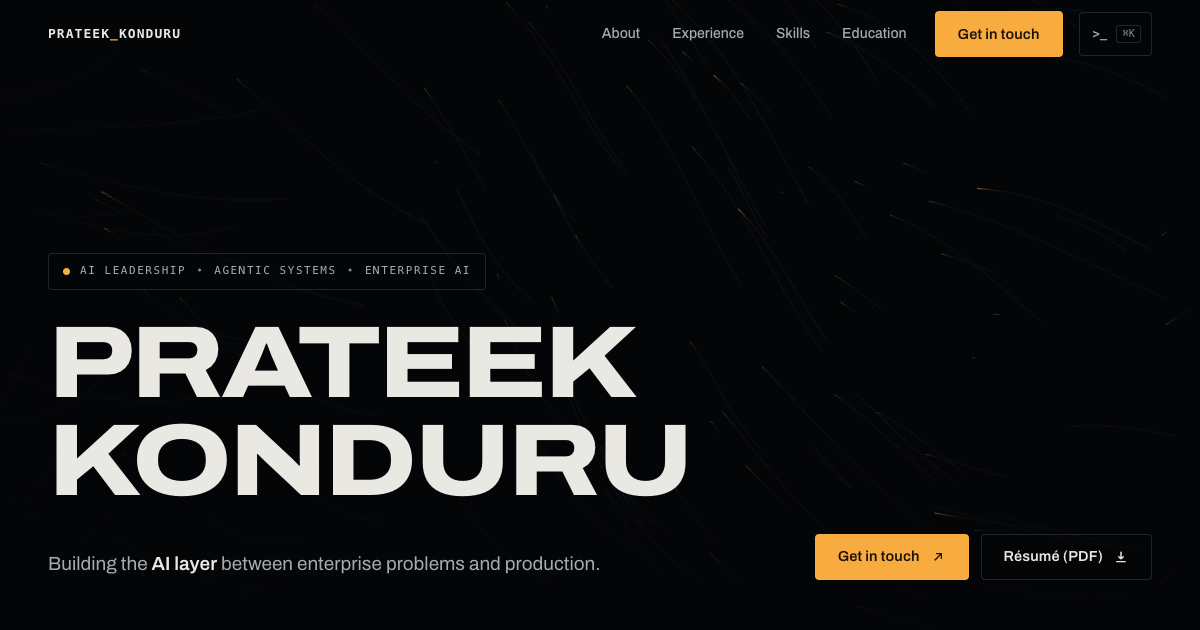
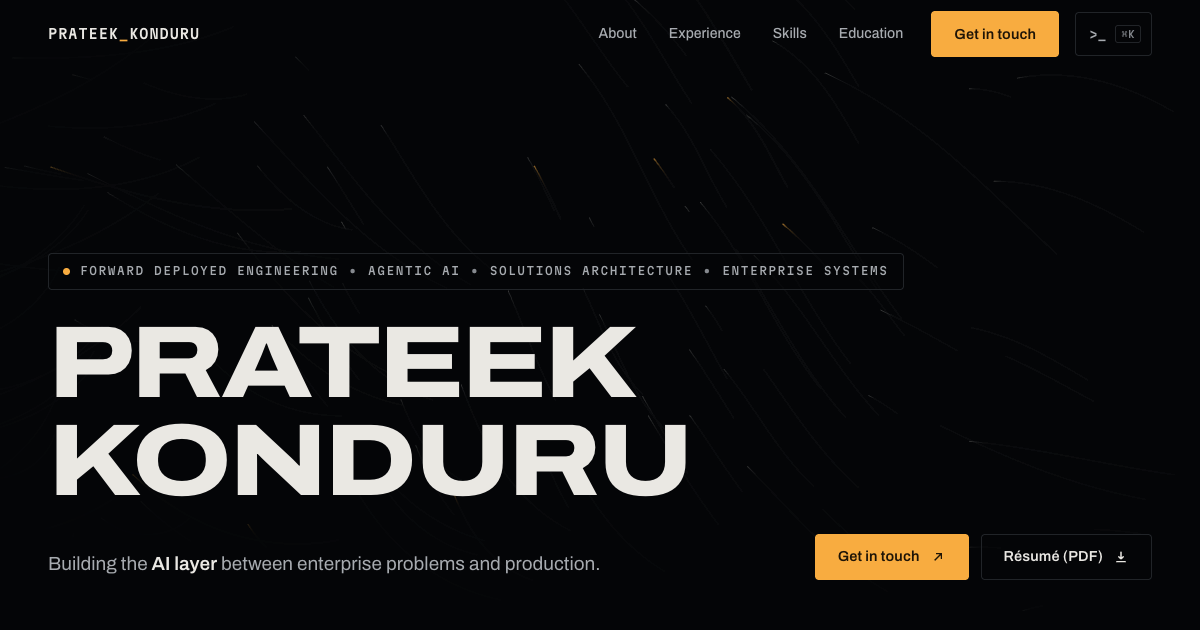
Hero pill: name the roles recruiters search for
"AI Leadership" named a category, not a job. The pill now reads
Forward Deployed Engineering / Agentic AI / Solutions Architecture /
Enterprise Systems, each backed by the résumé. It stays on one line on
desktop and wraps to three rows on phones. Social card regenerated.

diff --git a/index.html b/index.html
@@ -901,7 +901,7 @@
 <section class="hero" id="top" aria-label="Introduction">
     <canvas id="field" aria-hidden="true"></canvas>
     <div class="wrap">
-        <p class="status rv" style="--d:80ms"><span class="pulse" aria-hidden="true"></span><span>AI Leadership</span><span class="sep" aria-hidden="true">&bull;</span><span>Agentic Systems</span><span class="sep" aria-hidden="true">&bull;</span><span>Enterprise AI</span></p>
+        <p class="status rv" style="--d:80ms"><span class="pulse" aria-hidden="true"></span><span>Forward Deployed Engineering</span><span class="sep" aria-hidden="true">&bull;</span><span>Agentic AI</span><span class="sep" aria-hidden="true">&bull;</span><span>Solutions Architecture</span><span class="sep" aria-hidden="true">&bull;</span><span>Enterprise Systems</span></p>
         <h1>
             <span class="mask"><span style="--d:120ms">Prateek</span></span>
             <span class="mask"><span style="--d:220ms">Konduru<span class="caret" aria-hidden="true"></span></span></span>

diff --git a/DESIGN.md b/DESIGN.md
@@ -73,7 +73,7 @@ no fake product screenshots.
 ## Hard rules
 
 - Zero em/en-dashes in visible text (hyphens only)
-- Middle-dots only as the hero pill's two domain separators; never in prose or metadata lines
-- One decorative-adjacent dot on the whole page: the hero status pulse (fronting the domain strip "AI Leadership / Agentic Systems / Enterprise AI"; all three segments always show, wrapping into tidy rows inside the pill on narrow screens)
+- Middle-dots only as the hero pill's three domain separators; never in prose or metadata lines
+- One decorative-adjacent dot on the whole page: the hero status pulse (fronting the domain strip "Forward Deployed Engineering / Agentic AI / Solutions Architecture / Enterprise Systems"; all four segments always show, wrapping into tidy rows inside the pill on narrow screens)
 - No gradient text, no glassmorphism, no side-stripe borders, no stat-card strips
 - Contrast: body text >= 4.5:1, labels >= 4.5:1 at their size, amber-on-graphite CTAs ~8:1
